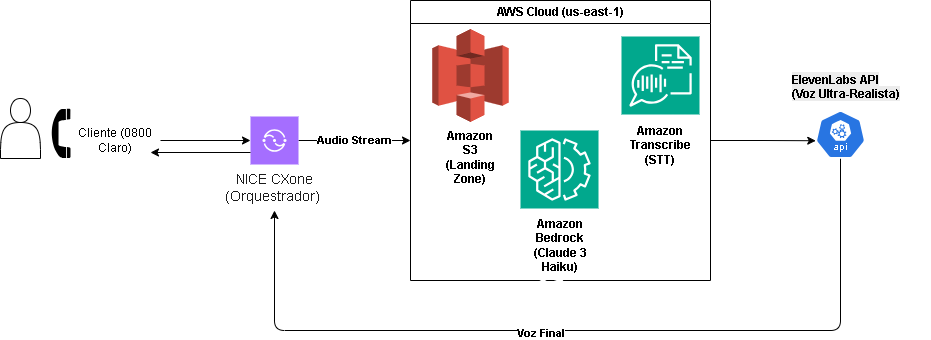
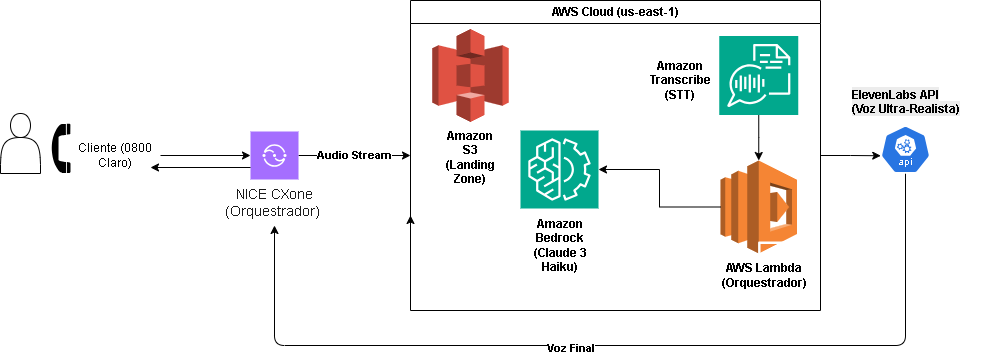
docs: arquitetura final integrada ao NICE CXone com orquestração Lambda

diff --git a/README.md b/README.md
@@ -1,42 +1,55 @@
-📞 AVI Claro - Simulador de Voz com IA Ultra-Realista (POC)
-O AVI (Assistente Virtual Inteligente) é uma Prova de Conceito (POC) desenvolvida para otimizar o atendimento de pós-venda da Claro Brasil. O sistema utiliza Inteligência Artificial Generativa e síntese de voz de alta fidelidade para humanizar o autoatendimento e resolver demandas críticas com agilidade.
+# 📞 AVI Claro - Simulador de Voz com IA Ultra-Realista (POC)
+
+O **AVI (Assistente Virtual Inteligente)** é uma Prova de Conceito (POC) desenvolvida para otimizar o atendimento de pós-venda da **Claro Brasil**. O sistema utiliza Inteligência Artificial Generativa e síntese de voz de alta fidelidade para humanizar o autoatendimento e resolver demandas críticas com agilidade.
+
+---
 
 ## 🏗 Arquitetura da Solução
 
 ![Desenho de Arquitetura VoiceIA Claro](./img/arquitetura-voice-ia-claro.png)
 
-O sistema utiliza uma abordagem de IA Generativa Multimodal integrada ao **NICE CXone** para substituir o fluxo de URAs tradicionais.
+O sistema utiliza uma abordagem de IA Generativa Multimodal integrada ao **NICE CXone** para substituir o fluxo de URAs tradicionais por uma interface de conversação natural.
 
-🧱 Fluxo de Dados (End-to-End)
-Captura: Interface Streamlit captura o áudio do microfone do usuário (formato WebM).
+### 🧱 Fluxo de Dados (End-to-End)
 
-Ingestão: O áudio é enviado para o Amazon S3 (Bucket: audio-claro-poc-andy) que atua como zona de pouso segura.
+1.  **Captura:** Interface Streamlit (ou NICE CXone via WebSocket) captura o áudio do cliente em formato de alta qualidade.
+2.  **Ingestão:** O áudio é armazenado no **Amazon S3** (`audio-claro-poc-andy`), servindo como *landing zone* para auditoria e processamento.
+3.  **Transcrição (STT):** O **Amazon Transcribe** converte a fala em texto em tempo real, suportando as nuances do português (PT-BR).
+4.  **Orquestração (AWS Lambda):** Camada *serverless* responsável pelo pré-processamento, consulta a APIs legadas da Claro (ex: status de pedido/CPF) e formatação dinâmica de prompts.
+5.  **Cérebro (LLM):** O **Amazon Bedrock (Claude 3 Haiku)** processa o contexto, aplica as regras de negócio e gera a resposta resolutiva.
+6.  **Síntese (TTS):** A **ElevenLabs** converte o texto final em uma voz ultra-realista que é reproduzida para o cliente.
 
-Transcrição (STT): O Amazon Transcribe processa o arquivo no S3 e converte a fala em texto em tempo real (PT-BR).
+---
 
-Cérebro (LLM): O Amazon Bedrock (Claude 3 Haiku) analisa o texto, entende a intenção e gera uma resposta resolutiva de acordo com as regras de negócio da Claro.
+## ☁ Infraestrutura Cloud (AWS)
 
-Síntese (TTS): A ElevenLabs (Modelo Multilingual v2.5) converte o texto em uma voz ultra-realista que é reproduzida para o cliente.
+* **Segurança:** Utilização de **IAM Roles** com permissões granulares e remoção de *Permissions Boundaries* restritivas para garantir a fluidez e integridade do processo.
+* **Escalabilidade:** Arquitetura 100% preparada para lidar com altos volumes de chamadas simultâneas através de serviços *serverless* e orquestração via Lambda.
 
-☁ Infraestrutura Cloud (AWS)
-Segurança: Utilização de IAM Roles com permissões granulares e remoção de Permissions Boundaries restritivas para garantir a fluidez do processo.
+---
 
-Escalabilidade: Arquitetura preparada para lidar com altos volumes de chamadas simultâneas através de serviços serverless da AWS.
+## 🚀 Diferenciais Técnicos
 
-🚀 Diferenciais Técnicos
-Experiência Premium: Substituição de vozes robóticas por IA de voz ultra-realista, reduzindo o esforço cognitivo do cliente.
+* **Experiência Premium:** Substituição de vozes sintéticas tradicionais por IA de voz ultra-realista, reduzindo drasticamente o esforço cognitivo do cliente.
+* **Inteligência de Pós-Venda:** Mapeamento de intenções estratégicas para logística (rastreio de iPhones), suporte técnico e protocolos de segurança.
+* **Resiliência:** Sistema robusto com *fallback* para entrada de texto em casos de limitações de hardware ou rede.
 
-Inteligência de Pós-Venda: Mapeamento de intenções para logística (status de pedidos de iPhones), suporte técnico e protocolos de segurança.
+---
 
-Resiliência: Sistema com fallback para entrada de texto caso haja limitações de hardware/navegador no cliente.
+## 🛠 Tecnologias Utilizadas
 
-🛠 Tecnologias Utilizadas
-Linguagem: Python 3.11+
+* **Linguagem:** Python 3.11+
+* **Orquestração:** AWS Lambda (Serverless)
+* **IA & Infraestrutura:** AWS (S3, Transcribe, Bedrock)
+* **Voz (High-Fidelity):** ElevenLabs
+* **Interface de Testes:** Streamlit
 
-Framework Web: Streamlit
+---
 
-Infraestrutura: AWS (S3, Transcribe, Bedrock)
+## 📦 Como Rodar o Projeto Localmente
 
-Voz (High-Fidelity): ElevenLabs
-
-Deploy: Streamlit Cloud
+1.  **Clone o repositório:**
+    ```bash
+    git clone [https://github.com/aclaymar/poc-voice-ia-claro.git](https://github.com/aclaymar/poc-voice-ia-claro.git)
+    cd poc-voice-ia-claro
+    ```
